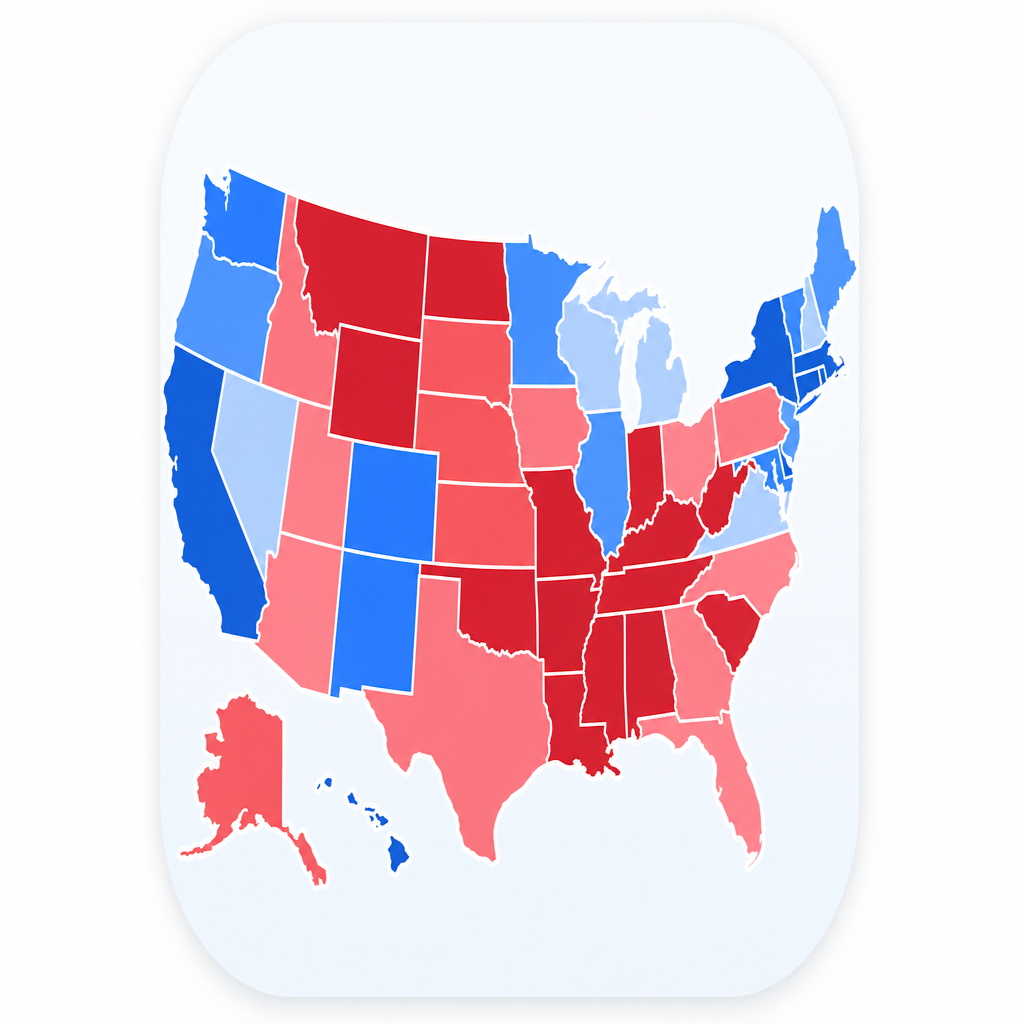
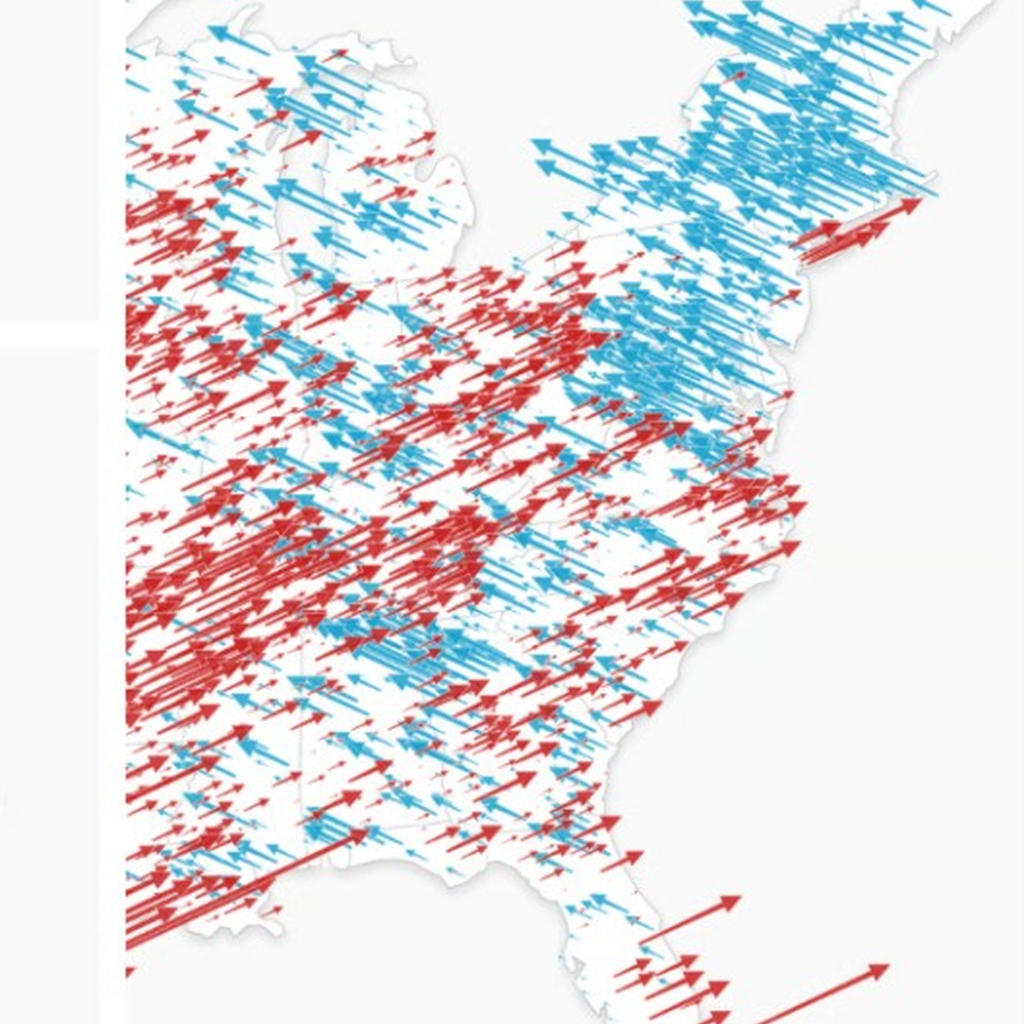
index.html

diff --git a/index.html b/index.html
@@ -114,6 +114,13 @@
       margin-left: auto;
       margin-right: auto;
     }
+    .version {
+      text-align: center;
+      font-size: 0.6875rem;
+      opacity: 0.4;
+      margin-top: 16px;
+      font-variant-numeric: tabular-nums;
+    }
     .skeleton .icon-wrap {
       background: rgba(255,255,255,0.15);
       animation: pulse 1.2s ease-in-out infinite;
@@ -197,6 +204,7 @@
   </div>
 
   <p class="hint">Tap an icon to open. In Safari: Share → Add to Home Screen to pin this launcher.</p>
+  <p class="version" id="homeVersion" aria-label="Launcher version"></p>
 
   <input type="file" id="importAllInput" accept="application/json,.json" />
   <div class="toast" id="toast" role="status" aria-live="polite"></div>
@@ -207,7 +215,8 @@
   "use strict";
 
   const REPO = "mathoose/cursor-apps";
-  const ICON_VERSION = "5";
+  const HOME_VERSION = "1";
+  const ICON_VERSION = "6";
   const IGNORE = new Set([".github", "scripts", "docs", "node_modules"]);
   const ICON_FILES = ["app-icon.png", "apple-touch-icon.png", "icon.svg", "icon.png"];
   const FALLBACK_MANIFEST = {
@@ -412,6 +421,8 @@
         });
     });
   }
+
+  document.getElementById("homeVersion").textContent = "Launcher v" + HOME_VERSION;
 
   renderSkeleton(4);
   initBackupDock();

diff --git a/rep-tracker/index.html b/rep-tracker/index.html
@@ -9,8 +9,8 @@
   <meta name="apple-mobile-web-app-title" content="Rep Tracker" />
   <meta name="mobile-web-app-capable" content="yes" />
   <meta name="theme-color" content="#1a365d" />
-  <link rel="icon" href="app-icon.png?v=2" type="image/png" />
-  <link rel="apple-touch-icon" href="app-icon.png?v=2" />
+  <link rel="icon" href="app-icon.png?v=3" type="image/png" />
+  <link rel="apple-touch-icon" href="app-icon.png?v=3" />
   <link rel="stylesheet" href="../apps-shell.css" />
   <link rel="stylesheet" href="https://unpkg.com/leaflet@1.9.4/dist/leaflet.css" crossorigin="" />
   <link rel="stylesheet" href="styles.css?v=5" />